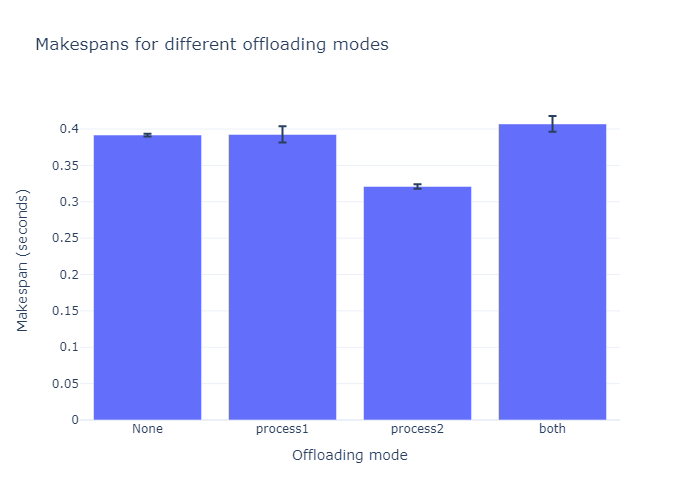
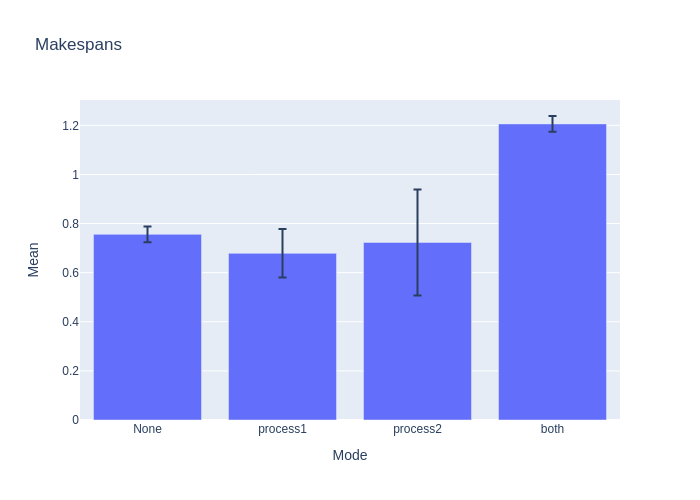
final test

diff --git a/main.py b/main.py
@@ -35,7 +35,7 @@ def final_process(data1: List[int], data2: List[int]) -> List[int]:
     """TODO: Document this function. What does it do? What are the inputs and outputs?"""
     return np.mean([x - y for x, y in zip(data1, data2)])
 
-offload_url = 'http://192.168.43.198:5000' # TODO: Change this to the IP address of your server
+offload_url = 'http://10.0.2.15:5000' # TODO: Change this to the IP address of your server
 
 def run(offload: Optional[str] = None) -> float:
     """Run the program, offloading the specified function(s) to the server.
@@ -47,18 +47,16 @@ def run(offload: Optional[str] = None) -> float:
         float: the final result of the program.
     """
     data = generate_data()
-    data1 = []
-    data2 = []
     if offload is None: # in this case, we run the program locally
         data1 = process1(data)
         data2 = process2(data)
     elif offload == 'process1':
         data1 = None
         def offload_process1(data):
-            nonlocal data1
-            # TODO: Send a POST request to the server with the input data
-            response = request.post(f"{offload_url}/process1",jason=data)
-            data1 = response.json()
+        	nonlocal data1
+        	# TODO: Send a POST request to the server with the input data
+        	response = requests.post(f'{offload_url}/process1', json=data)
+        	data1 = response.json()
         thread = threading.Thread(target=offload_process1, args=(data,))
         thread.start()
         data2 = process2(data)
@@ -73,9 +71,9 @@ def run(offload: Optional[str] = None) -> float:
         data2 = None
         def offload_process2(data):
         	nonlocal data2
-        	response = request.post(f"{offload_url}/process2", jason=data)
+        	response = requests.post(f'{offload_url}/process2', json=data)
         	data2 = response.json()
-        thread = threading.Thread(target=offload_process1, args=(data,))
+        thread = threading.Thread(target=offload_process2, args=(data,))
         thread.start()
         data1 = process1(data)
         thread.join()
@@ -84,20 +82,20 @@ def run(offload: Optional[str] = None) -> float:
         data1 = None
         def offload_process1(data):
             nonlocal data1
-            response = request.post(f"{offload_url}/process1",jason=data)
+            response = requests.post(f"{offload_url}/process1", json=data)
             # TODO: Send a POST request to the server with the input data
             data1 = response.json()
-        thread = threading.Thread(target=offload_process1, args=(data,))
-        thread.start()
-        data2 = process2(data)
-        thread.join()
         
         data2 = None
         def offload_process2(data):
                 nonlocal data2
-                response = request.post(f"{offload_url}/process2", jason=data)
+                response = requests.post(f"{offload_url}/process2", json=data)
                 data2 = response.json()
         thread = threading.Thread(target=offload_process1, args=(data,))
+        thread.start()
+        data2 = process2(data)
+        thread.join()
+        thread = threading.Thread(target=offload_process2, args=(data,))
         thread.start()
         data1 = process1(data)
         thread.join()
@@ -111,17 +109,16 @@ def main():
     #   Compute the mean and standard deviation of the execution times
     #   Hint: store the results in a pandas DataFrame, use previous labs as a reference
 	message = []
-	offloading = [None, "Process1", "Process2", "Both"]
-	times = []
-	start_time = time.time()
+	offloading = [None, "process1", "process2", "both"]
 	for mode in offloading:
+		times = []
 		for i in range(5):
 			start = time.time()
 			run(mode)
 			end = time.time()
 			times.append(end - start)
 			print(f"{mode}, mean:{np.mean(times)}, standard deviation:{np.std(times)}")
-		message.append([mode, np.mean(times), np.std(times)])
+		message.append([str(mode), np.mean(times), np.std(times)])
 	df = pd.DataFrame(message, columns=['Mode', "Mean", "Standard Deviation"])
     # TODO: Plot makespans (total execution time) as a bar chart with error bars
     # Make sure to include a title and x and y labels
@@ -131,7 +128,7 @@ def main():
 	bar.write_image("makespan.png")
 
     # Question 4: What is the best offloading mode? Why do you think that is?
-    # Question 5: What is the worst offloading mode? Why do you think that is?
+    # Question 5: What is the worst offloading mode? Why do you thinwk that is?
     # Question 6: The processing functions in the example aren't very likely to be used in a real-world application. 
     #   What kind of processing functions would be more likely to be used in a real-world application?
     #   When would you want to offload these functions to a server?

diff --git a/server.py b/server.py
@@ -13,17 +13,17 @@ def index():
 # The route should get the data from the request, call the function, and return the result.
 @app.route('/process1', methods=['POST'])
 def process1_route():
-    data = request.get_json()
-    result = process1(data)
-    return jsonify({'result': result})
+	data = request.get_json()
+	result = process1(data)
+	return jsonify(result)
 
 
 @app.route('/process2', methods=['POST'])
 def process2_route():
-    data = request.get_json()
-    result = process2(data)
-    return jsonify({'result': result})
+	data = request.get_json()
+	result = process2(data)
+	return jsonify(result)
   
     
 if __name__ == '__main__':
-    app.run(debug=True)
+    app.run(host='0.0.0.0', debug=True)
